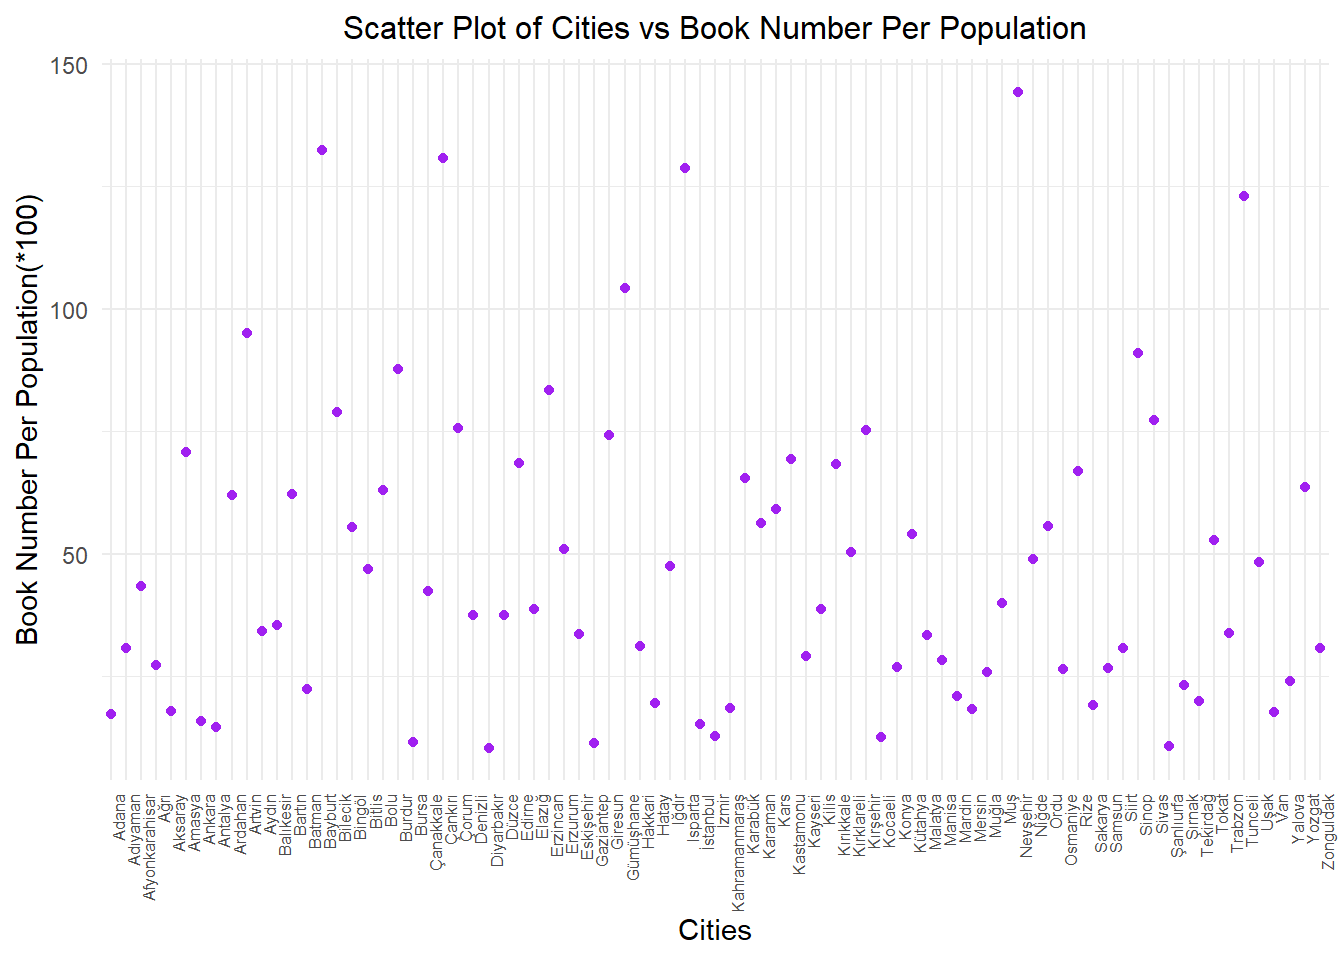
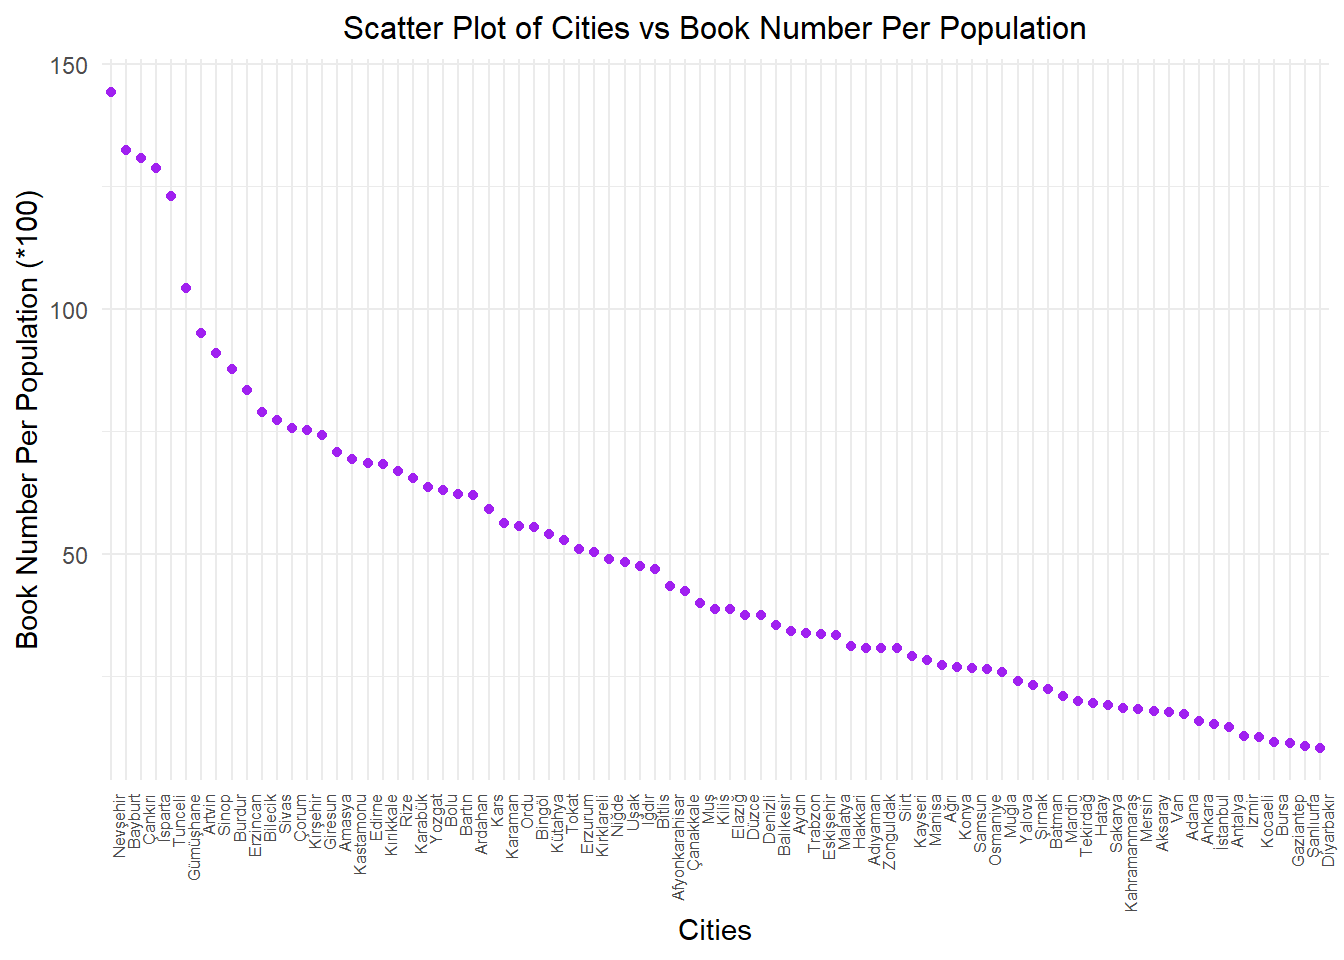
decreasing

diff --git a/docs/analysis.html b/docs/analysis.html
@@ -2,7 +2,7 @@
 <html xmlns="http://www.w3.org/1999/xhtml" lang="en" xml:lang="en"><head>
 
 <meta charset="utf-8">
-<meta name="generator" content="quarto-1.3.433">
+<meta name="generator" content="quarto-1.3.450">
 
 <meta name="viewport" content="width=device-width, initial-scale=1.0, user-scalable=yes">
 
@@ -223,16 +223,16 @@ pre > code.sourceCode > span > a:first-child::before { text-decoration: underlin
 <div class="cell">
 <details>
 <summary>Show the code</summary>
-<div class="sourceCode cell-code" id="cb6"><pre class="sourceCode r code-with-copy"><code class="sourceCode r"><span id="cb6-1"><a href="#cb6-1" aria-hidden="true" tabindex="-1"></a>data <span class="sc">|&gt;</span></span>
-<span id="cb6-2"><a href="#cb6-2" aria-hidden="true" tabindex="-1"></a>  <span class="fu">filter</span>(year<span class="sc">==</span><span class="dv">2022</span>) <span class="sc">|&gt;</span></span>
-<span id="cb6-3"><a href="#cb6-3" aria-hidden="true" tabindex="-1"></a>  <span class="fu">mutate</span>(<span class="at">book_per_person=</span>book_num<span class="sc">/</span>population) <span class="sc">|&gt;</span></span>
-<span id="cb6-4"><a href="#cb6-4" aria-hidden="true" tabindex="-1"></a>  <span class="fu">ggplot</span>(<span class="fu">aes</span>(<span class="at">x =</span> city, <span class="at">y =</span> book_per_person<span class="sc">*</span><span class="dv">100</span>)) <span class="sc">+</span></span>
+<div class="sourceCode cell-code" id="cb6"><pre class="sourceCode r code-with-copy"><code class="sourceCode r"><span id="cb6-1"><a href="#cb6-1" aria-hidden="true" tabindex="-1"></a>data <span class="sc">%&gt;%</span></span>
+<span id="cb6-2"><a href="#cb6-2" aria-hidden="true" tabindex="-1"></a>  <span class="fu">filter</span>(year <span class="sc">==</span> <span class="dv">2022</span>) <span class="sc">%&gt;%</span></span>
+<span id="cb6-3"><a href="#cb6-3" aria-hidden="true" tabindex="-1"></a>  <span class="fu">mutate</span>(<span class="at">book_per_person=</span>book_num<span class="sc">/</span>population,<span class="at">city =</span> <span class="fu">factor</span>(city, <span class="at">levels =</span> <span class="fu">unique</span>(city[<span class="fu">order</span>(book_per_person, <span class="at">decreasing =</span> <span class="cn">TRUE</span>)]))) <span class="sc">%&gt;%</span></span>
+<span id="cb6-4"><a href="#cb6-4" aria-hidden="true" tabindex="-1"></a>  <span class="fu">ggplot</span>(<span class="fu">aes</span>(<span class="at">x =</span> city, <span class="at">y =</span> book_per_person <span class="sc">*</span> <span class="dv">100</span>)) <span class="sc">+</span></span>
 <span id="cb6-5"><a href="#cb6-5" aria-hidden="true" tabindex="-1"></a>  <span class="fu">geom_point</span>(<span class="at">color =</span> <span class="st">"purple"</span>) <span class="sc">+</span>  </span>
 <span id="cb6-6"><a href="#cb6-6" aria-hidden="true" tabindex="-1"></a>  <span class="fu">geom_smooth</span>(<span class="at">method =</span> <span class="st">"lm"</span>, <span class="at">se =</span> <span class="cn">FALSE</span>, <span class="at">color =</span> <span class="st">"yellow"</span>, <span class="at">formula =</span> y <span class="sc">~</span> x) <span class="sc">+</span> </span>
-<span id="cb6-7"><a href="#cb6-7" aria-hidden="true" tabindex="-1"></a>  <span class="fu">labs</span>(<span class="at">x =</span> <span class="st">"Cities"</span>, <span class="at">y =</span> <span class="st">"Book Number Per Population(*100)"</span>) <span class="sc">+</span> </span>
+<span id="cb6-7"><a href="#cb6-7" aria-hidden="true" tabindex="-1"></a>  <span class="fu">labs</span>(<span class="at">x =</span> <span class="st">"Cities"</span>, <span class="at">y =</span> <span class="st">"Book Number Per Population (*100)"</span>) <span class="sc">+</span> </span>
 <span id="cb6-8"><a href="#cb6-8" aria-hidden="true" tabindex="-1"></a>  <span class="fu">ggtitle</span>(<span class="st">"Scatter Plot of Cities vs Book Number Per Population"</span>) <span class="sc">+</span></span>
 <span id="cb6-9"><a href="#cb6-9" aria-hidden="true" tabindex="-1"></a>  <span class="fu">theme_minimal</span>() <span class="sc">+</span></span>
-<span id="cb6-10"><a href="#cb6-10" aria-hidden="true" tabindex="-1"></a>  <span class="fu">theme</span>(<span class="at">plot.title =</span> <span class="fu">element_text</span>(<span class="at">size =</span> <span class="dv">12</span>, <span class="at">hjust =</span> <span class="fl">0.5</span>),<span class="at">axis.text.x =</span> <span class="fu">element_text</span>(<span class="at">angle =</span> <span class="dv">90</span>, <span class="at">hjust =</span> <span class="dv">1</span>, <span class="at">size =</span> <span class="dv">6</span>)) </span></code><button title="Copy to Clipboard" class="code-copy-button"><i class="bi"></i></button></pre></div>
+<span id="cb6-10"><a href="#cb6-10" aria-hidden="true" tabindex="-1"></a>  <span class="fu">theme</span>(<span class="at">plot.title =</span> <span class="fu">element_text</span>(<span class="at">size =</span> <span class="dv">12</span>, <span class="at">hjust =</span> <span class="fl">0.5</span>), <span class="at">axis.text.x =</span> <span class="fu">element_text</span>(<span class="at">angle =</span> <span class="dv">90</span>, <span class="at">hjust =</span> <span class="dv">1</span>, <span class="at">size =</span> <span class="dv">6</span>))</span></code><button title="Copy to Clipboard" class="code-copy-button"><i class="bi"></i></button></pre></div>
 </details>
 <div class="cell-output-display">
 <p><img src="analysis_files/figure-html/unnamed-chunk-5-1.png" class="img-fluid" width="672"></p>
@@ -241,16 +241,16 @@ pre > code.sourceCode > span > a:first-child::before { text-decoration: underlin
 <div class="cell">
 <details>
 <summary>Show the code</summary>
-<div class="sourceCode cell-code" id="cb7"><pre class="sourceCode r code-with-copy"><code class="sourceCode r"><span id="cb7-1"><a href="#cb7-1" aria-hidden="true" tabindex="-1"></a>data <span class="sc">|&gt;</span></span>
-<span id="cb7-2"><a href="#cb7-2" aria-hidden="true" tabindex="-1"></a>  <span class="fu">filter</span>(year<span class="sc">==</span><span class="dv">2022</span>) <span class="sc">|&gt;</span></span>
-<span id="cb7-3"><a href="#cb7-3" aria-hidden="true" tabindex="-1"></a>  <span class="fu">mutate</span>(<span class="at">museum_per_person=</span>(ministry_museum_num <span class="sc">+</span> private_museum_num)<span class="sc">/</span>population) <span class="sc">|&gt;</span></span>
-<span id="cb7-4"><a href="#cb7-4" aria-hidden="true" tabindex="-1"></a>  <span class="fu">ggplot</span>(<span class="fu">aes</span>(<span class="at">x =</span> city, <span class="at">y =</span> museum_per_person<span class="sc">*</span><span class="dv">100000</span>)) <span class="sc">+</span></span>
+<div class="sourceCode cell-code" id="cb7"><pre class="sourceCode r code-with-copy"><code class="sourceCode r"><span id="cb7-1"><a href="#cb7-1" aria-hidden="true" tabindex="-1"></a>data <span class="sc">%&gt;%</span></span>
+<span id="cb7-2"><a href="#cb7-2" aria-hidden="true" tabindex="-1"></a>  <span class="fu">filter</span>(year <span class="sc">==</span> <span class="dv">2022</span>) <span class="sc">%&gt;%</span></span>
+<span id="cb7-3"><a href="#cb7-3" aria-hidden="true" tabindex="-1"></a>  <span class="fu">mutate</span>(<span class="at">museum_per_person=</span>((ministry_museum_num <span class="sc">+</span> private_museum_num)<span class="sc">/</span>population), <span class="at">city =</span> <span class="fu">factor</span>(city, <span class="at">levels =</span> <span class="fu">unique</span>(city[<span class="fu">order</span>(museum_per_person, <span class="at">decreasing =</span> <span class="cn">TRUE</span>)]))) <span class="sc">%&gt;%</span></span>
+<span id="cb7-4"><a href="#cb7-4" aria-hidden="true" tabindex="-1"></a>  <span class="fu">ggplot</span>(<span class="fu">aes</span>(<span class="at">x =</span> city, <span class="at">y =</span> museum_per_person <span class="sc">*</span> <span class="dv">100000</span>)) <span class="sc">+</span></span>
 <span id="cb7-5"><a href="#cb7-5" aria-hidden="true" tabindex="-1"></a>  <span class="fu">geom_point</span>(<span class="at">color =</span> <span class="st">"purple"</span>) <span class="sc">+</span>  </span>
 <span id="cb7-6"><a href="#cb7-6" aria-hidden="true" tabindex="-1"></a>  <span class="fu">geom_smooth</span>(<span class="at">method =</span> <span class="st">"lm"</span>, <span class="at">se =</span> <span class="cn">FALSE</span>, <span class="at">color =</span> <span class="st">"yellow"</span>, <span class="at">formula =</span> y <span class="sc">~</span> x) <span class="sc">+</span> </span>
-<span id="cb7-7"><a href="#cb7-7" aria-hidden="true" tabindex="-1"></a>  <span class="fu">labs</span>(<span class="at">x =</span> <span class="st">"Cities"</span>, <span class="at">y =</span> <span class="st">"Museum Number Per Population(*100000)"</span>) <span class="sc">+</span> </span>
+<span id="cb7-7"><a href="#cb7-7" aria-hidden="true" tabindex="-1"></a>  <span class="fu">labs</span>(<span class="at">x =</span> <span class="st">"Cities"</span>, <span class="at">y =</span> <span class="st">"Museum Number Per Population (*100000)"</span>) <span class="sc">+</span> </span>
 <span id="cb7-8"><a href="#cb7-8" aria-hidden="true" tabindex="-1"></a>  <span class="fu">ggtitle</span>(<span class="st">"Scatter Plot of Cities vs Museum Number Per Population"</span>) <span class="sc">+</span></span>
 <span id="cb7-9"><a href="#cb7-9" aria-hidden="true" tabindex="-1"></a>  <span class="fu">theme_minimal</span>() <span class="sc">+</span></span>
-<span id="cb7-10"><a href="#cb7-10" aria-hidden="true" tabindex="-1"></a>  <span class="fu">theme</span>(<span class="at">plot.title =</span> <span class="fu">element_text</span>(<span class="at">size =</span> <span class="dv">12</span>, <span class="at">hjust =</span> <span class="fl">0.5</span>),<span class="at">axis.text.x =</span> <span class="fu">element_text</span>(<span class="at">angle =</span> <span class="dv">90</span>, <span class="at">hjust =</span> <span class="dv">1</span>, <span class="at">size =</span> <span class="dv">6</span>)) </span></code><button title="Copy to Clipboard" class="code-copy-button"><i class="bi"></i></button></pre></div>
+<span id="cb7-10"><a href="#cb7-10" aria-hidden="true" tabindex="-1"></a>  <span class="fu">theme</span>(<span class="at">plot.title =</span> <span class="fu">element_text</span>(<span class="at">size =</span> <span class="dv">12</span>, <span class="at">hjust =</span> <span class="fl">0.5</span>), <span class="at">axis.text.x =</span> <span class="fu">element_text</span>(<span class="at">angle =</span> <span class="dv">90</span>, <span class="at">hjust =</span> <span class="dv">1</span>, <span class="at">size =</span> <span class="dv">6</span>))</span></code><button title="Copy to Clipboard" class="code-copy-button"><i class="bi"></i></button></pre></div>
 </details>
 <div class="cell-output-display">
 <p><img src="analysis_files/figure-html/unnamed-chunk-6-1.png" class="img-fluid" width="672"></p>
